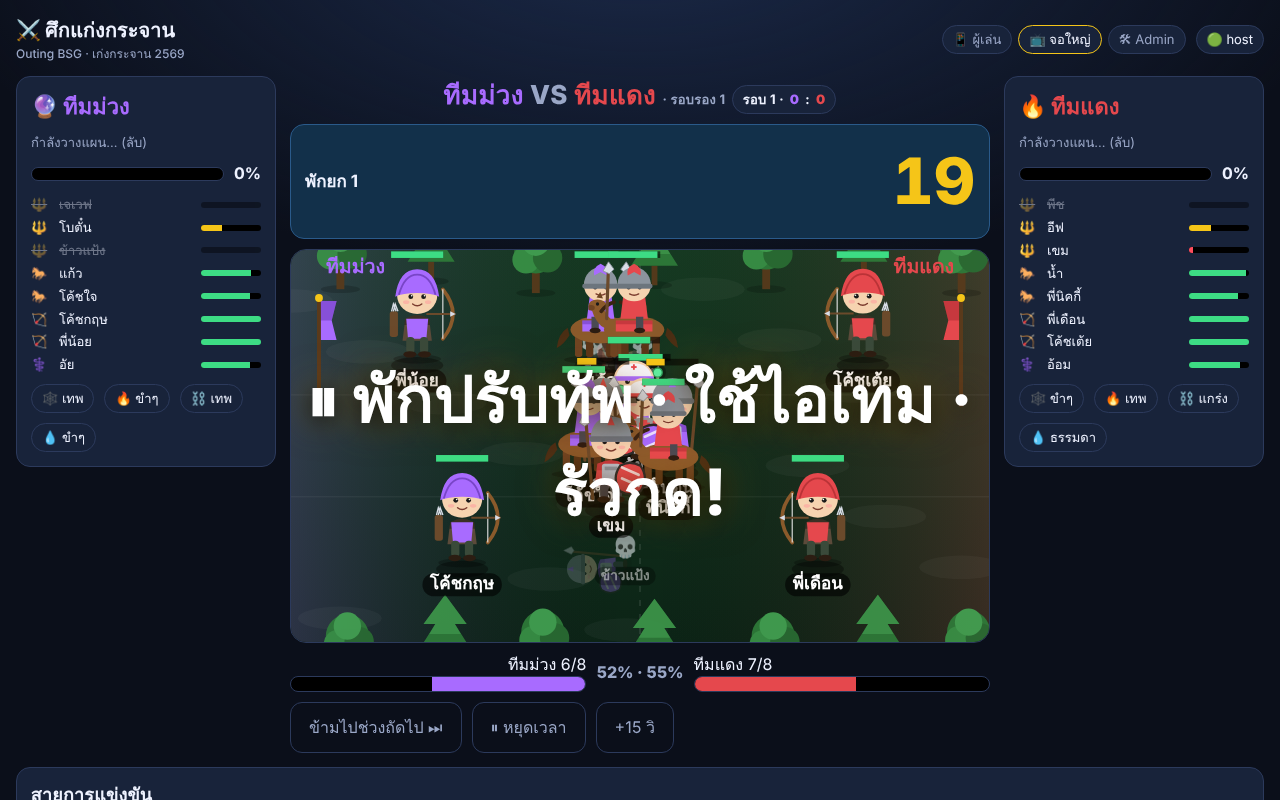
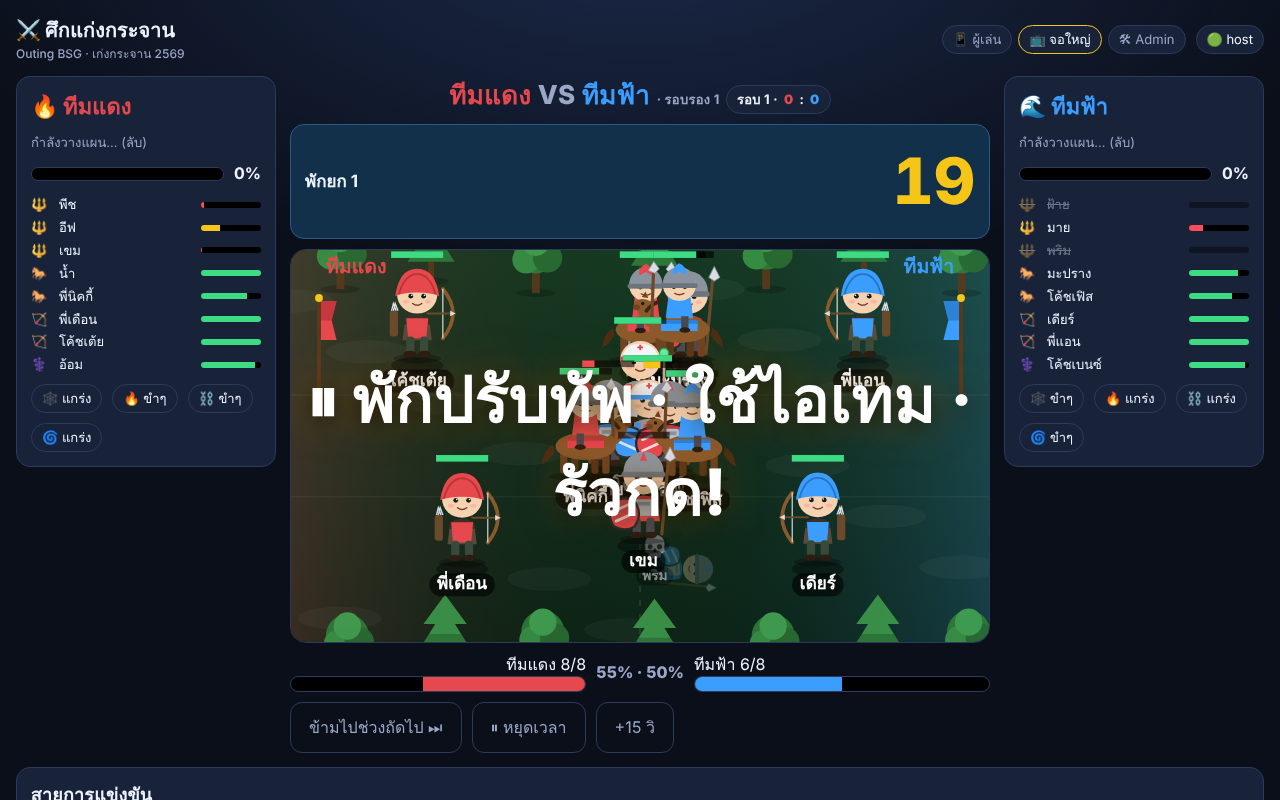
น้ำมนต์สับสน แทนน้ำทิพย์ · ธนูโจมตีช้าลง 15%
Claude-Session: https://claude.ai/code/session_01JbJWCdY4QKd2woKbG6bJFF

diff --git a/js/app.js b/js/app.js
@@ -404,43 +404,16 @@
       if (demos[itemId] !== d) return;
       const ros = {}, cellsA = {}, cellsB = {};
       const compA = itemId === 'wheel' ? ['cav', 'cav', 'spear', 'spear', 'archer', 'archer'] : ['spear', 'spear', 'spear', 'archer', 'archer', 'medic'];
-      const compB = itemId === 'net' ? ['cav', 'cav', 'cav', 'spear', 'spear', 'archer'] : ['spear', 'spear', 'cav', 'cav', 'archer', 'archer'];
+      const compB = (itemId === 'net' || itemId === 'water') ? ['cav', 'cav', 'cav', 'spear', 'spear', 'archer'] : ['spear', 'spear', 'cav', 'cav', 'archer', 'archer'];
       compA.forEach((c, i) => { const id = 'da' + i; ros[id] = { name: 'เรา ' + (i + 1), cls: c }; cellsA[i] = id; });
       compB.forEach((c, i) => { const id = 'db' + i; ros[id] = { name: 'ศัตรู ' + (i + 1), cls: c }; cellsB[i] = id; });
       let units = Sim.createUnits({ A: { team: teamA, cells: cellsA }, B: { team: teamB, cells: cellsB } }, ros, S);
       const seed = 'demo' + itemId + d.n++;
       const inpNo = { A: { team: teamA, plan: 'front', item: null, morale: 0, cells: cellsA }, B: { team: teamB, plan: 'front', item: null, morale: 0, cells: cellsB } };
       const inpYes = { A: { ...inpNo.A, item: { id: itemId, tier: 0 } }, B: inpNo.B };
-      if (itemId === 'water') {
-        // ยก 1: ฝ่ายเราเสียเปรียบ มีคนล้ม → พักยก → ยก 2 ใช้น้ำทิพย์ ฟื้น+ชุบ
-        units.forEach((u) => { u.hp = Math.round(u.maxHp * (u.side === 'A' ? 0.3 + 0.08 * (u.cell % 3) : 0.55)); });
-        const w1 = Sim.simulateWave(units, 0, inpNo, ros, S, seed, 6);
-        // ให้แน่ใจว่าจบยก 1 มีคนล้ม 2 และที่เหลือเลือดกลางๆ
-        const ours = w1.units.filter((u) => u.side === 'A');
-        let deadN = ours.filter((u) => !u.alive).length;
-        for (const u of ours.sort((a, b) => a.hp - b.hp)) { if (deadN >= 2) break; if (u.alive) { u.alive = false; u.hp = 0; deadN++; } }
-        for (const u of ours) if (u.alive) u.hp = Math.round(u.maxHp * 0.3);
-        // ศัตรูก็เสียไป 2 และเลือดเหลือง (สู้กันมาเท่าๆ กัน)
-        const en = w1.units.filter((u) => u.side === 'B'); let dB = en.filter((u) => !u.alive).length;
-        for (const u of en.sort((a, b) => a.hp - b.hp)) { if (dB >= 2) break; if (u.alive) { u.alive = false; u.hp = 0; dB++; } }
-        for (const u of en) if (u.alive) u.hp = Math.round(u.maxHp * 0.36);
-        ours.forEach((u) => { if (u.cls === 'medic' && !u.alive) { const other = ours.find((x) => x.alive && x.cls !== 'medic'); if (other) { other.alive = false; other.hp = 0; u.alive = true; u.hp = Math.round(u.maxHp * 0.3); } } });
-        setTag('ยก 1: ฝ่ายเราโดนถล่ม…'); r.playWave(w1, Date.now() + 300, 1);
-        d.timer = setTimeout(() => {
-          if (demos[itemId] !== d) return;
-          setTag('⏸ พักยก → กัปตันกดใช้ 💧 น้ำทิพย์ (เทพ)'); r.setStatic(w1.units);
-          d.timer = setTimeout(() => {
-            if (demos[itemId] !== d) return;
-            const w2 = bestWave(w1.units, 1, inpYes, ros, seed, 7);
-            setTag('ยก 2: +35% ทั้งทีม + ชุบ 1 คน → พลิกกลับมารุม!'); r.playWave(w2, Date.now() + 300, 1);
-            d.timer = setTimeout(loop, 8000);
-          }, 2500);
-        }, 6800);
-        return;
-      }
       units.forEach((u) => { u.deployed = true; });
       const w = bestWave(units, 0, inpYes, ros, seed, 10);
-      setTag({ net: 'เริ่มยก → 2 วิ โยน 🕸 ตรึง 4 ตัวที่บุกมา 4 วิ โดนตีแรงขึ้น 30%', wheel: '🔥 ล้อไฟ: ทั้งทีมตีแรงขึ้น 35% ทั้งยก', chain: '🛡 โซ่สามัคคี: ทั้งทีมรับดาเมจลด 40% ทั้งยก' }[itemId] || '');
+      setTag({ net: 'เริ่มยก → 2 วิ โยน 🕸 ตรึง 4 ตัวที่บุกมา 4 วิ โดนตีแรงขึ้น 30%', wheel: '🔥 ล้อไฟ: ทั้งทีมตีแรงขึ้น 35% ทั้งยก', chain: '🛡 โซ่สามัคคี: ทั้งทีมรับดาเมจลด 40% ทั้งยก', water: '🌀 น้ำมนต์: ศัตรู 4 ตัวงง หันไปตีกันเอง 4 วิ โจมตีช้าลง 30%' }[itemId] || '');
       r.playWave(w, Date.now() + 300, 1);
       d.timer = setTimeout(loop, 11500);
     };
@@ -513,7 +486,7 @@
       const waterTier0 = it && it.id === 'water' && (it.bonus || (teamItems(team).find((x) => x.id === 'water') || {}).tier === 0);
       if (waterTier0 && m.stage !== 'plan') {
         const dead = computeMatch().units.filter((u) => u.team === team && !u.alive);
-        if (dead.length) h += `<div class="panel"><h2>✨ น้ำทิพย์เทพ: เลือกคนที่จะชุบชีวิต ${isCaptain() ? '' : '<span class="small muted">(กัปตันเลือก)</span>'}</h2><div class="name-grid">` + dead.map((u) => `<button class="name-btn ${(it.revive || dead[0].id) === u.id ? 'primary' : ''}" ${isCaptain() ? `data-act="revive" data-pid="${u.id}"` : 'disabled'}>${D.CLASSES[u.cls].emoji} ${esc(u.name)}</button>`).join('') + `</div><div class="hint">ถ้าไม่เลือก จะชุบคนแรกที่ล้ม</div></div>`;
+        if (dead.length) h += `<div class="panel"><h2>✨ น้ำมนต์ระดับเทพ: เลือกคนที่จะชุบชีวิต ${isCaptain() ? '' : '<span class="small muted">(กัปตันเลือก)</span>'}</h2><div class="name-grid">` + dead.map((u) => `<button class="name-btn ${(it.revive || dead[0].id) === u.id ? 'primary' : ''}" ${isCaptain() ? `data-act="revive" data-pid="${u.id}"` : 'disabled'}>${D.CLASSES[u.cls].emoji} ${esc(u.name)}</button>`).join('') + `</div><div class="hint">ถ้าไม่เลือก จะชุบคนแรกที่ล้ม</div></div>`;
       }
     }
     h += `<div class="panel sticky-bottom"><h2>🔥 รัวกด = ฟื้นเลือด + ขวัญกำลังใจ</h2>` + tapHtml(side) + `</div>`;

diff --git a/js/sim.js b/js/sim.js
@@ -120,11 +120,9 @@ window.Sim = (function () {
         }
       }
       if (mod.item === 'water') {
-        for (const u of units) if (u.side === side && u.alive && u.deployed) {
-          const h = Math.round(u.maxHp * mod.itemVal / 100);
-          u.hp = Math.min(u.maxHp, u.hp + h);
-          events.push({ t: 0, type: 'heal', to: u.id, amt: h, item: true });
-        }
+        const targets = units.filter((u) => u.side === enemy && u.alive && u.deployed)
+          .sort((a, b) => (side === 'A' ? a.x - b.x : b.x - a.x)).slice(0, (D.ITEMS.water.counts || [3, 3, 3, 3])[mod.itemTier]);
+        for (const u of targets) { u.confusedUntil = mod.itemVal; events.push({ t: 0, type: 'confuse', to: u.id, dur: mod.itemVal }); }
         if (mod.itemTier === 0) {
           const dead = units.filter((u) => u.side === side && !u.alive);
           const pick = dead.find((u) => u.id === mod.reviveId) || dead[0];
@@ -163,7 +161,7 @@ window.Sim = (function () {
     for (let tick = 0; tick < ticks; tick++) {
       const t = tick * TICK;
       // snapshot เฟรม
-      frames.push(units.map((u) => [u.id, +u.x.toFixed(4), +u.y.toFixed(4), Math.max(0, Math.round(u.hp)), (u.alive ? 1 : 0) | (u.deployed ? 2 : 0) | (u.stunUntil > t ? 4 : 0) | (u.engaged ? 8 : 0)]));
+      frames.push(units.map((u) => [u.id, +u.x.toFixed(4), +u.y.toFixed(4), Math.max(0, Math.round(u.hp)), (u.alive ? 1 : 0) | (u.deployed ? 2 : 0) | (u.stunUntil > t ? 4 : 0) | (u.engaged ? 8 : 0) | ((u.confusedUntil || -1) > t ? 16 : 0)]));
       const alive = { A: 0, B: 0 };
       for (const u of units) if (u.alive && u.deployed) alive[u.side]++;
       if (alive.A === 0 || alive.B === 0) { endTick = tick; break; }
@@ -199,8 +197,9 @@ window.Sim = (function () {
           }
           continue;
         }
-        const enemies = enemiesOf(u).map((e) => snap[e.id]);
-        const target = pickTarget(su, enemies, mod.plan);
+        const confused = (u.confusedUntil || -1) > t;
+        const enemies = (confused ? units.filter((e) => e.side === u.side && e.id !== u.id && e.alive && e.deployed) : enemiesOf(u)).map((e) => snap[e.id]);
+        const target = pickTarget(su, enemies, confused ? 'front' : mod.plan);
         if (!target) continue;
         const range = u.cls === 'archer' ? S.archerRange : S.meleeRange;
         const d = dist(su, target);
@@ -213,8 +212,8 @@ window.Sim = (function () {
         }
         u.cd -= TICK;
         if (u.cd > 0) continue;
-        u.cd = S.attackEvery;
-        attacks.push({ u, target, charge: u.cls === 'cav' && (u.moving || 0) >= 5 });
+        u.cd = (S.atkEvery && S.atkEvery[u.cls] ? S.atkEvery[u.cls] : S.attackEvery) * (confused ? 1 / (1 - (S.confuseSlow || 0.3)) : 1);
+        attacks.push({ u, target, charge: u.cls === 'cav' && (u.moving || 0) >= 5, confused });
         u.moving = 0;
       }
       // เฟส 2: ใช้ผล
@@ -243,7 +242,7 @@ window.Sim = (function () {
         dmg = Math.max(1, Math.round(dmg));
         if (!target.alive) continue; // ล้มไปแล้วใน tick เดียวกัน
         target.hp -= dmg;
-        events.push({ t, type: 'hit', from: u.id, to: target.id, dmg, crit, counter: cm.k, ranged: u.cls === 'archer', charge: !!a.charge });
+        events.push({ t, type: 'hit', from: u.id, to: target.id, dmg, crit, counter: cm.k, ranged: u.cls === 'archer', charge: !!a.charge, friendly: u.side === target.side });
         if (target.hp <= 0) {
           target.hp = 0; target.alive = false;
           events.push({ t, type: 'die', id: target.id, name: target.name, cls: target.cls, side: target.side, by: u.id });
@@ -263,7 +262,7 @@ window.Sim = (function () {
     }
     // เฟรมสุดท้าย
     frames.push(units.map((u) => [u.id, +u.x.toFixed(4), +u.y.toFixed(4), Math.max(0, Math.round(u.hp)), (u.alive ? 1 : 0) | (u.deployed ? 2 : 0)]));
-    units.forEach((u) => { u.stunUntil = -1; u.engaged = false; });
+    units.forEach((u) => { u.stunUntil = -1; u.confusedUntil = -1; u.engaged = false; });
     return { units, events, frames, endTick, ticks, duration, waveIdx, sideMod };
   }
 

diff --git a/js/render.js b/js/render.js
@@ -91,7 +91,8 @@ window.BattleRenderer = (function () {
         this.effects.push({ k: 'num', x: t.x, y: t.y, txt: (ev.crit ? '💥' : '') + '-' + ev.dmg, t0: el + (ev.ranged ? 0.25 : 0), dur: 0.9, color: ev.crit ? '#ffd23f' : (ev.counter === 'win' ? '#ff8a5c' : '#fff'), big: ev.crit || ev.charge });
         this.effects.push({ k: 'flash', id: ev.to, t0: el + (ev.ranged ? 0.25 : 0), dur: 0.2 });
         if (!ev.ranged && p(ev.from)) this.effects.push({ k: 'lunge', id: ev.from, tx: t.x, ty: t.y, t0: el, dur: 0.3 });
-        if (ev.crit) this._comment(`💥 คริติคอล! ${uf.name} ซัด ${ut.name} ไป ${ev.dmg}`, 'crit', el, 2);
+        if (ev.friendly) this._comment(`😵 ${uf.name} งง! หันไปตี ${ut.name} พวกเดียวกัน -${ev.dmg}`, 'crit', el, 2);
+        else if (ev.crit) this._comment(`💥 คริติคอล! ${uf.name} ซัด ${ut.name} ไป ${ev.dmg}`, 'crit', el, 2);
         else if (ev.charge) this._comment(`🐎 ${uf.name} ควบม้าพุ่งชน ${ut.name} เต็มแรง!`, 'crit', el, 1);
         else if (ev.counter === 'win') this._comment(`${D.CLASSES[uf.cls].emoji} ${uf.name} ไล่ถล่ม ${ut.name} แพ้ทางเต็มๆ`, '', el, 1);
         else if (ev.counter === 'lose') this._comment(`${uf.name} ตี ${ut.name} แต่แพ้ทาง เจ็บแค่ ${ev.dmg}`, '', el, 0);
@@ -107,6 +108,8 @@ window.BattleRenderer = (function () {
         if (!ev.item && uf) this._comment(`💚 หมอ ${uf.name} ฮีล ${ut.name} +${ev.amt}`, 'heal', el, 0);
       } else if (ev.type === 'enter') {
         this.effects.push({ k: 'ring', id: ev.id, t0: el, dur: 0.8 });
+      } else if (ev.type === 'confuse') {
+        this.effects.push({ k: 'confuse', id: ev.to, t0: el, dur: ev.dur });
       } else if (ev.type === 'stun') {
         this.effects.push({ k: 'stun', id: ev.to, t0: el, dur: ev.dur });
       } else if (ev.type === 'item') {
@@ -221,6 +224,15 @@ window.BattleRenderer = (function () {
             ctx.fillStyle = g; ctx.beginPath(); ctx.ellipse(x, y + R * 0.6, R * 2.4, R * 1.2, 0, 0, Math.PI * 2); ctx.fill();
             ctx.font = `${R * 1.3 * f}px sans-serif`; ctx.fillText('🔥', x - R * 1.4, y - R * 0.6); ctx.fillText('🔥', x + R * 1.4, y - R * 0.4);
             ctx.font = `${R * 0.9}px sans-serif`; ctx.fillText('🔥', x, y - H - R * 0.1);
+          }
+          if (e.k === 'confuse') {
+            const cy = y - H - R * 0.3; const spin = el * 4;
+            ctx.save(); ctx.font = `${R * 1.5}px sans-serif`; ctx.textAlign = 'center'; ctx.textBaseline = 'middle';
+            ctx.fillText('😵', x, cy);
+            ctx.fillStyle = '#9ad8ff'; ctx.font = `800 ${R * 0.9}px Kanit, sans-serif`;
+            for (let i = 0; i < 3; i++) { const a = spin + i * Math.PI * 2 / 3; ctx.fillText('?', x + Math.cos(a) * R * 1.6, cy + Math.sin(a) * R * 0.6); }
+            const left = Math.max(0, e.t0 + e.dur - el); ctx.fillStyle = '#9ad8ff'; ctx.font = `800 ${R * 0.8}px Kanit, sans-serif`; ctx.fillText('งง ' + left.toFixed(1), x, y + R * 2.0);
+            ctx.restore();
           }
           if (e.k === 'stun') {
             const cy = y - R * 1.3, rr = R * 2.1;

diff --git a/index.html b/index.html
@@ -8,22 +8,22 @@
 <link rel="preconnect" href="https://fonts.googleapis.com">
 <link rel="preconnect" href="https://fonts.gstatic.com" crossorigin>
 <link href="https://fonts.googleapis.com/css2?family=Kanit:wght@400;500;600;700;800&family=Sarabun:wght@400;500;700&display=swap" rel="stylesheet">
-<link rel="stylesheet" href="css/style.css?v=20261018183456">
+<link rel="stylesheet" href="css/style.css?v=20261018191448">
 </head>
 <body>
 <div id="app" class="app"><div class="boot">กำลังโหลดสนามรบ…</div></div>
 <div id="toast" class="toast" hidden></div>
 
-<script src="js/vendor/firebase-app-compat.js?v=20261018183456"></script>
-<script src="js/vendor/firebase-database-compat.js?v=20261018183456"></script>
-<script src="js/vendor/morphdom-umd.js?v=20261018183456"></script>
+<script src="js/vendor/firebase-app-compat.js?v=20261018191448"></script>
+<script src="js/vendor/firebase-database-compat.js?v=20261018191448"></script>
+<script src="js/vendor/morphdom-umd.js?v=20261018191448"></script>
 <script src="https://cdnjs.cloudflare.com/ajax/libs/qrcodejs/1.0.0/qrcode.min.js"></script>
-<script src="js/config.js?v=20261018183456"></script>
-<script src="js/data.js?v=20261018183456"></script>
-<script src="js/store.js?v=20261018183456"></script>
-<script src="js/sim.js?v=20261018183456"></script>
-<script src="js/sprites.js?v=20261018183456"></script>
-<script src="js/render.js?v=20261018183456"></script>
-<script src="js/app.js?v=20261018183456"></script>
+<script src="js/config.js?v=20261018191448"></script>
+<script src="js/data.js?v=20261018191448"></script>
+<script src="js/store.js?v=20261018191448"></script>
+<script src="js/sim.js?v=20261018191448"></script>
+<script src="js/sprites.js?v=20261018191448"></script>
+<script src="js/render.js?v=20261018191448"></script>
+<script src="js/app.js?v=20261018191448"></script>
 </body>
 </html>

diff --git a/js/data.js b/js/data.js
@@ -55,9 +55,9 @@ window.GameData = (function () {
     chain: { id: 'chain', name: 'โซ่สามัคคี', emoji: '⛓',
              desc: 'ทั้งทีมได้เกราะ รับดาเมจน้อยลงตลอดยก',
              tiers: [40, 28, 20, 12], unit: '%' },
-    water: { id: 'water', name: 'น้ำทิพย์', emoji: '💧',
-             desc: 'ฮีลทั้งทีมทันทีตอนเริ่มยก (ระดับเทพ: ชุบชีวิต 1 คนด้วยเลือด 35%)',
-             tiers: [35, 35, 25, 15], unit: '%', revive: 35 },
+    water: { id: 'water', name: 'น้ำมนต์สับสน', emoji: '🌀',
+             desc: 'สาดใส่ศัตรูตอนเริ่มยก ตัวที่โดน "งง" หันไปตีพวกเดียวกันเอง 4 วิ และโจมตีช้าลง 30% (ระดับเทพ: ชุบชีวิต 1 คนด้วยเลือด 35%)',
+             tiers: [4, 4, 4, 4], unit: 'วินาที', counts: [4, 3, 2, 1], revive: 35 },
   };
 
   const DEFAULT_SETTINGS = {
@@ -75,7 +75,7 @@ window.GameData = (function () {
     varMin: 0.85, varMax: 1.15, critChance: 0.10, critMult: 2.0,
     moraleMax: 0.15, moraleHeal: 0.25, tapsPerPersonFull: 40,
     planFrontBonus: 1.10, planBackExposed: 1.15, cavCharge: 1.4, netDelay: 2, stunVuln: 1.3,
-    attackEvery: 1.0, archerRange: 0.38, meleeRange: 0.055, healRange: 0.2,
+    attackEvery: 1.0, atkEvery: { cav: 1.0, spear: 1.0, archer: 1.15, medic: 1.0 }, confuseSlow: 0.3, archerRange: 0.38, meleeRange: 0.055, healRange: 0.2,
   };
 
   function slug(name) {
